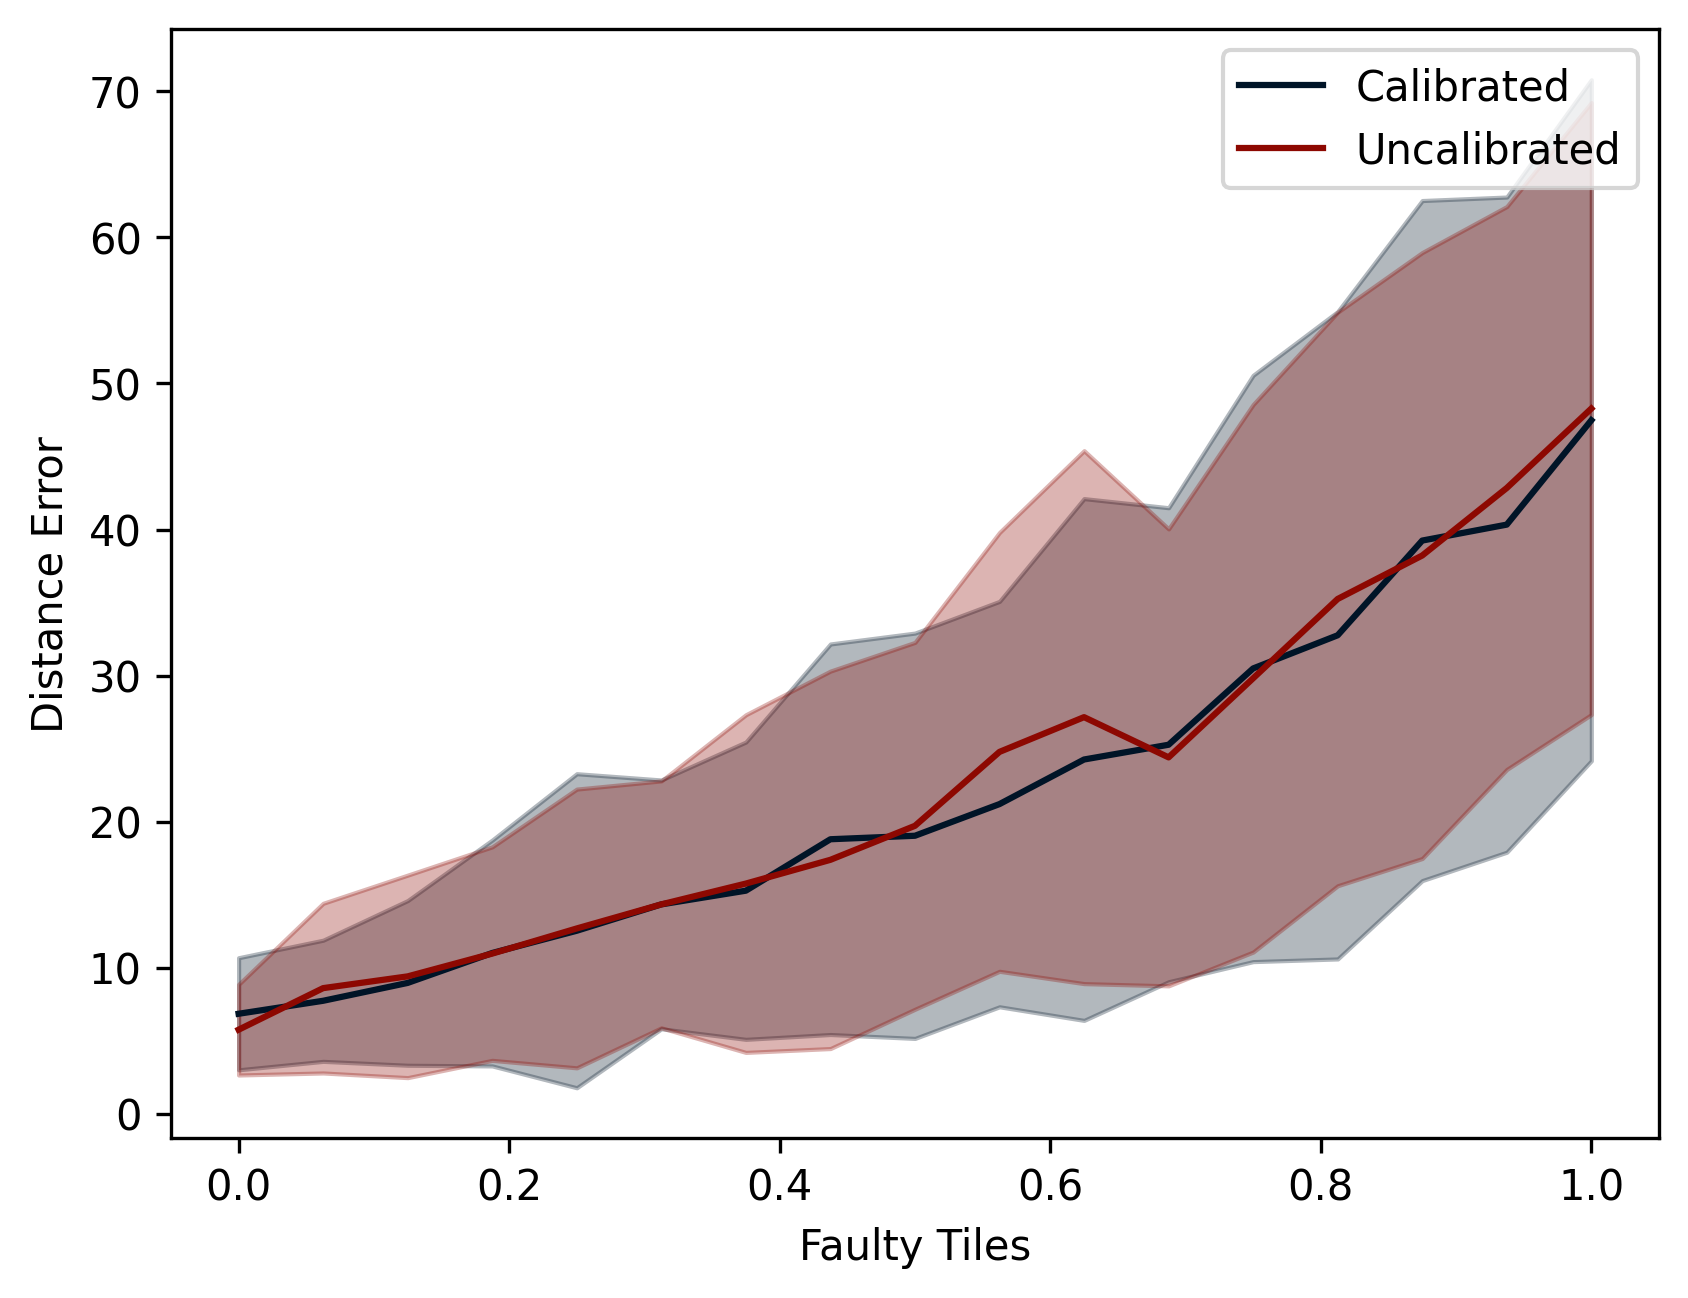
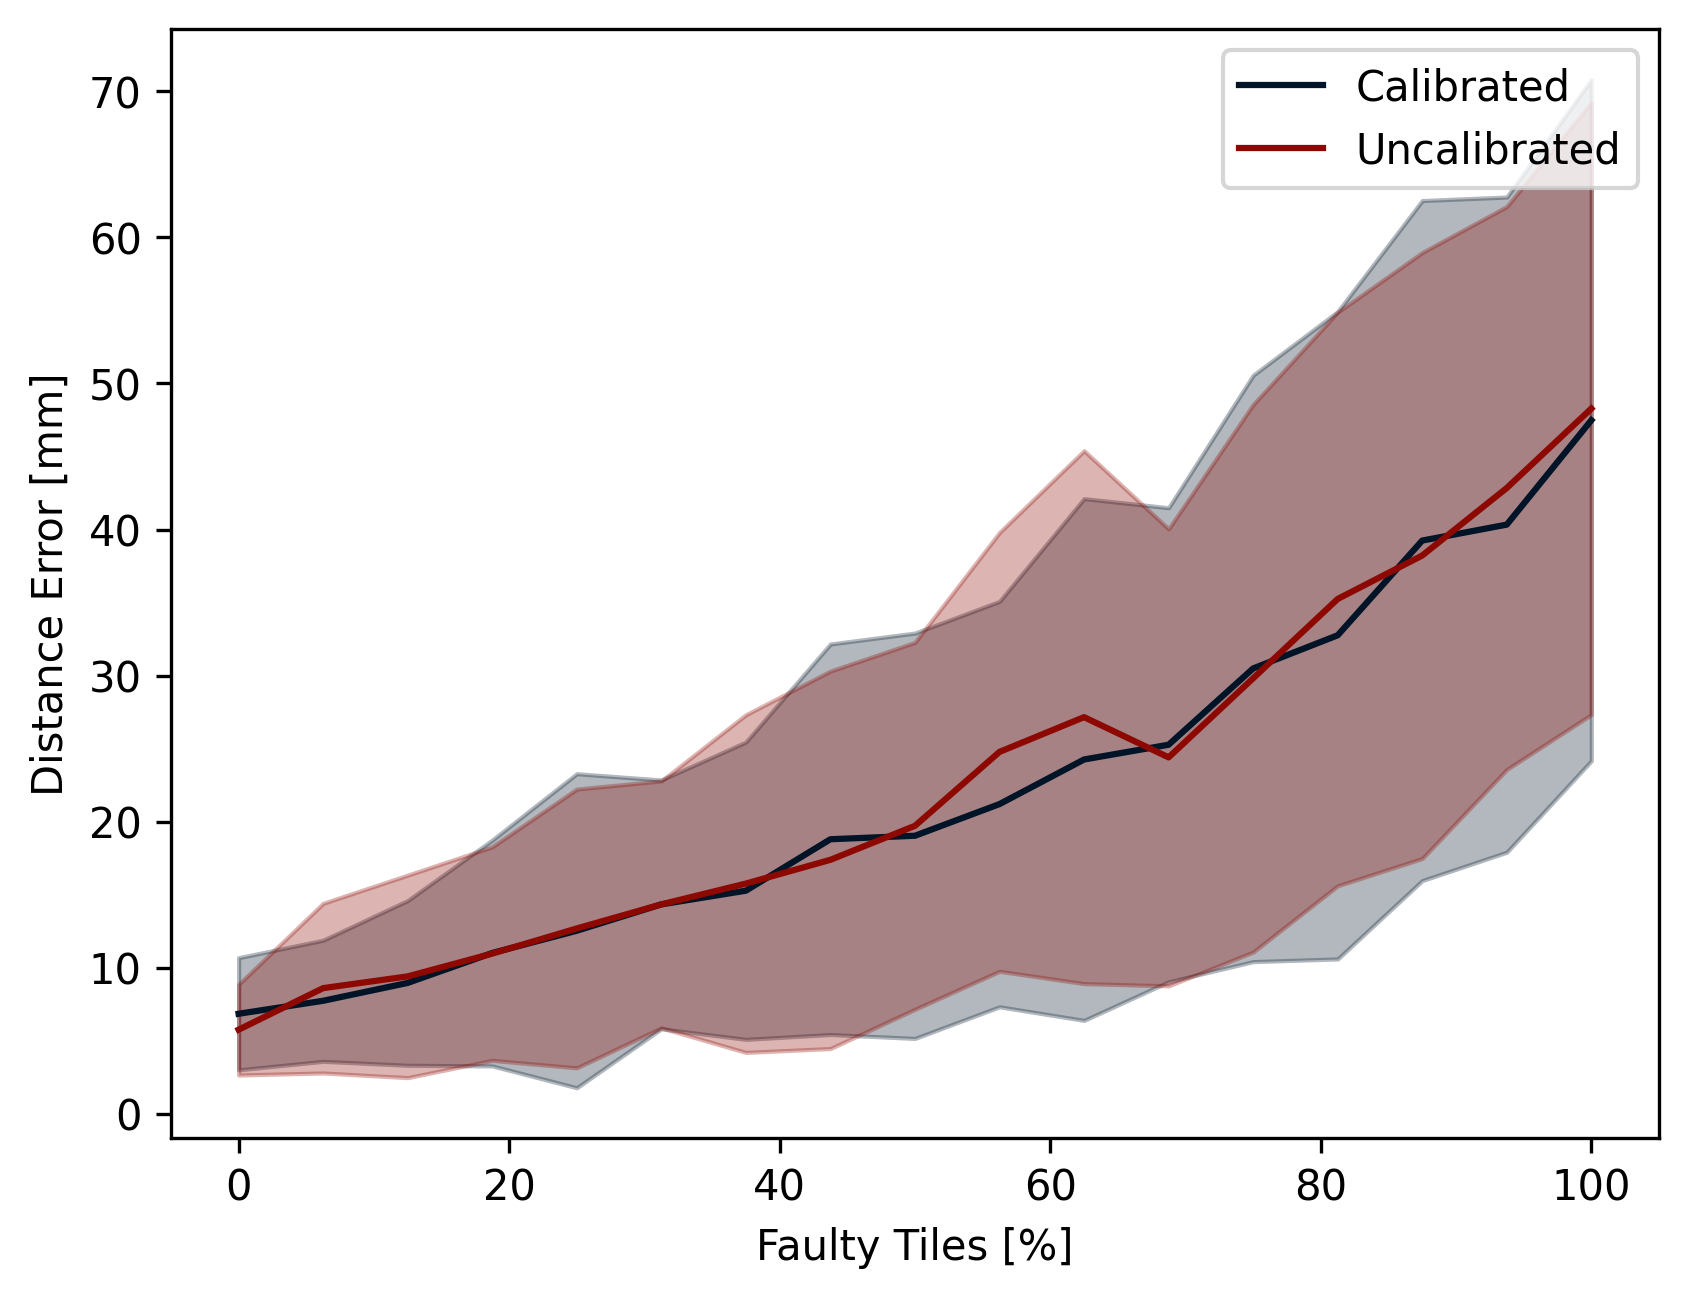
minor in plots

diff --git a/Exp_ResultAnalysis_FaultTolerance.py b/Exp_ResultAnalysis_FaultTolerance.py
@@ -88,12 +88,12 @@ def make_plot(names):
 
         #plot mean and std as filled area
         color = palette[i]
-        plt.fill_between(percent_n_faulty_tiles, means-stds, means+stds, color=color, alpha=0.3)
-        plt.plot(percent_n_faulty_tiles, means, label=name, color=color)
+        plt.fill_between(percent_n_faulty_tiles*100, means-stds, means+stds, color=color, alpha=0.3)
+        plt.plot(percent_n_faulty_tiles*100, means, label=name, color=color)
     
     plt.legend(loc='upper right')
-    plt.xlabel('Faulty Tiles')
-    plt.ylabel('Distance Error')
+    plt.xlabel('Faulty Tiles [%]')
+    plt.ylabel('Distance Error [mm]')
     #plt.title('Distance Error Histogram')
     
     image_path = f'{_folders.VISUALIZATIONS_PATH}/Fault_Tolerance.png'

diff --git a/Exp_Scalability.py b/Exp_Scalability.py
@@ -146,8 +146,8 @@ def plot_scalability(model_name:str):
     #plor results in a line and std as fill_between
     plt.plot(boards, mean_errors, label='Mean Error')
     plt.fill_between(boards, mean_errors-std_errors, mean_errors+std_errors, alpha=0.2, label='Std Error')
-    plt.xlabel('Board Shape')
-    plt.ylabel('Mean Error')
+    plt.xlabel('Board Shape [NxN]')
+    plt.ylabel('Distance Error [Tiles]')
     plt.title('Scalability')
     #ticks to board shapes
     #plt.xticks(boards)

diff --git a/Exp_ResultAnalysis_NoiseTolerance.py b/Exp_ResultAnalysis_NoiseTolerance.py
@@ -87,8 +87,8 @@ def make_plot(names):
         plt.plot(error_percent*100, means, label=name, color=color)
     
     plt.legend(loc='upper right')
-    plt.xlabel('Error %')
-    plt.ylabel('Distance Error')
+    plt.xlabel('Signal Noise [%]')
+    plt.ylabel('Distance Error [mm]')
     #plt.title('Distance Error Histogram')
     
     image_path = f'{_folders.VISUALIZATIONS_PATH}/NoiseTolerance_.png'
